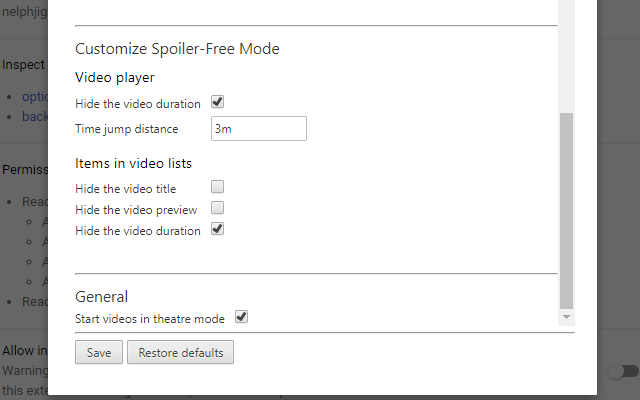
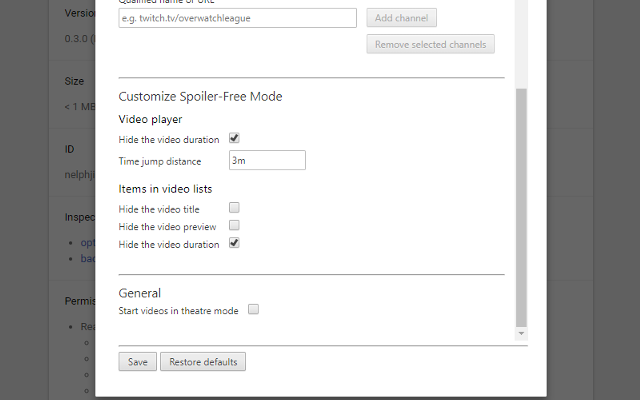
options: improved styling (separation of option sections, upd. screens)

Changed region(s): [[0.0, 0.0, 0.9375, 1.0], [0.9688, 0.9, 1.0, 0.96], [0.3438, 0.39, 0.375, 0.42]]

diff --git a/chrome_extension/options/options.html b/chrome_extension/options/options.html
@@ -12,7 +12,9 @@
 
 <div id="options">
 
-    <div id="sfmEnabledContainer">
+    <hr/>
+
+    <div id="sfmEnabledContainer" class="optionsSectionContainer">
 
         <h2 id="sfmEnabledLabel"></h2>
 
@@ -42,7 +44,7 @@
 
     <hr/>
 
-    <div id="sfmCfgContainer">
+    <div id="sfmCfgContainer" class="optionsSectionContainer">
 
         <h2 id="sfmCfgLabel"></h2>
 
@@ -67,11 +69,11 @@
                 <input type="checkBox" id="sfmCfgVideoListHideDuration">
             </div>
         </div>
-
-        <hr/>
     </div>
 
-    <div id="generalContainer">
+    <hr/>
+
+    <div id="generalContainer" class="optionsSectionContainer">
         <h2 id="generalLabel"></h2>
         <div class="formGrid">
             <label id="generalTheatreModeLabel" for="generalTheatreMode"></label>

diff --git a/chrome_extension/options/options.css b/chrome_extension/options/options.css
@@ -11,14 +11,14 @@ body {
     padding-right: 1em;
 }
 
-#options hr {
-    margin-top: 3.5em;
-}
-
 label {
     /* to vertically align the text in the div */
     margin-top: auto;
     margin-bottom: auto;
+}
+
+.optionsSectionContainer {
+    margin-bottom: 2.5em;
 }
 
 .formGrid {
@@ -57,10 +57,10 @@ label {
     grid-column: 2;
 }
 
-/* empty row at 3 for increased gap */
+/* empty row at 5 for increased gap */
 
 #sfmEnabledRemoveChannelCell {
-    grid-row: 5;
+    grid-row: 6;
     grid-column: 2;
 }
 
